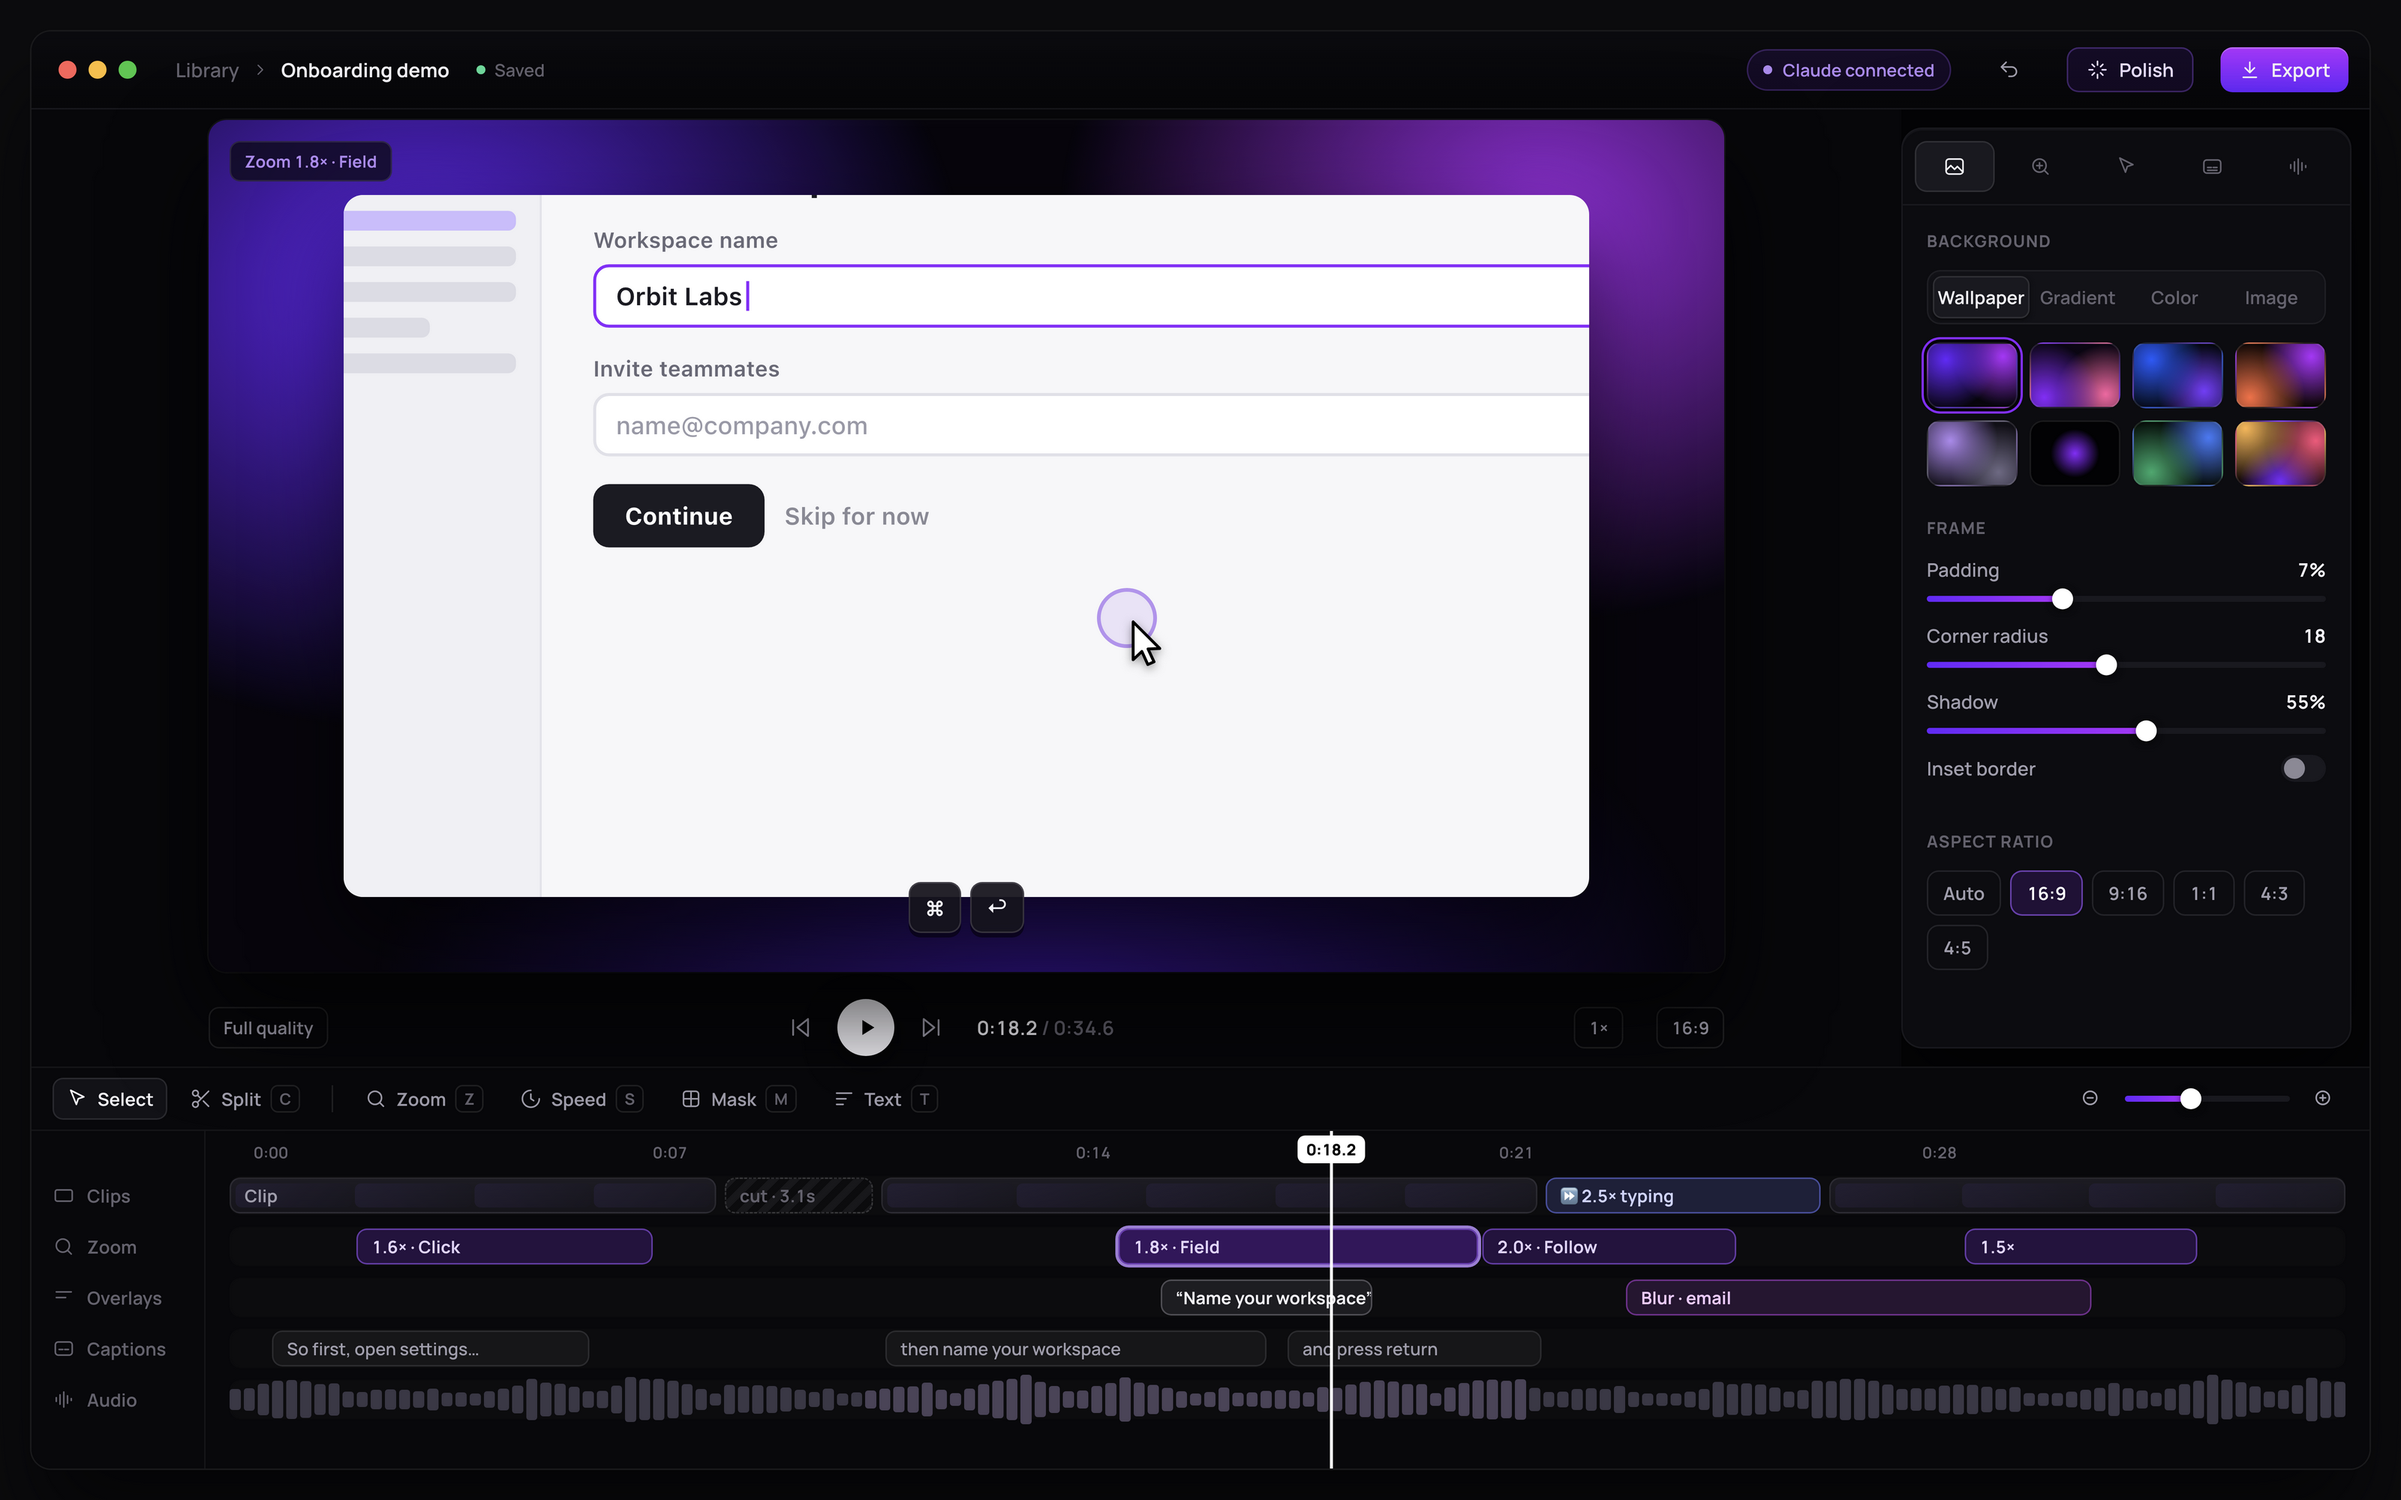
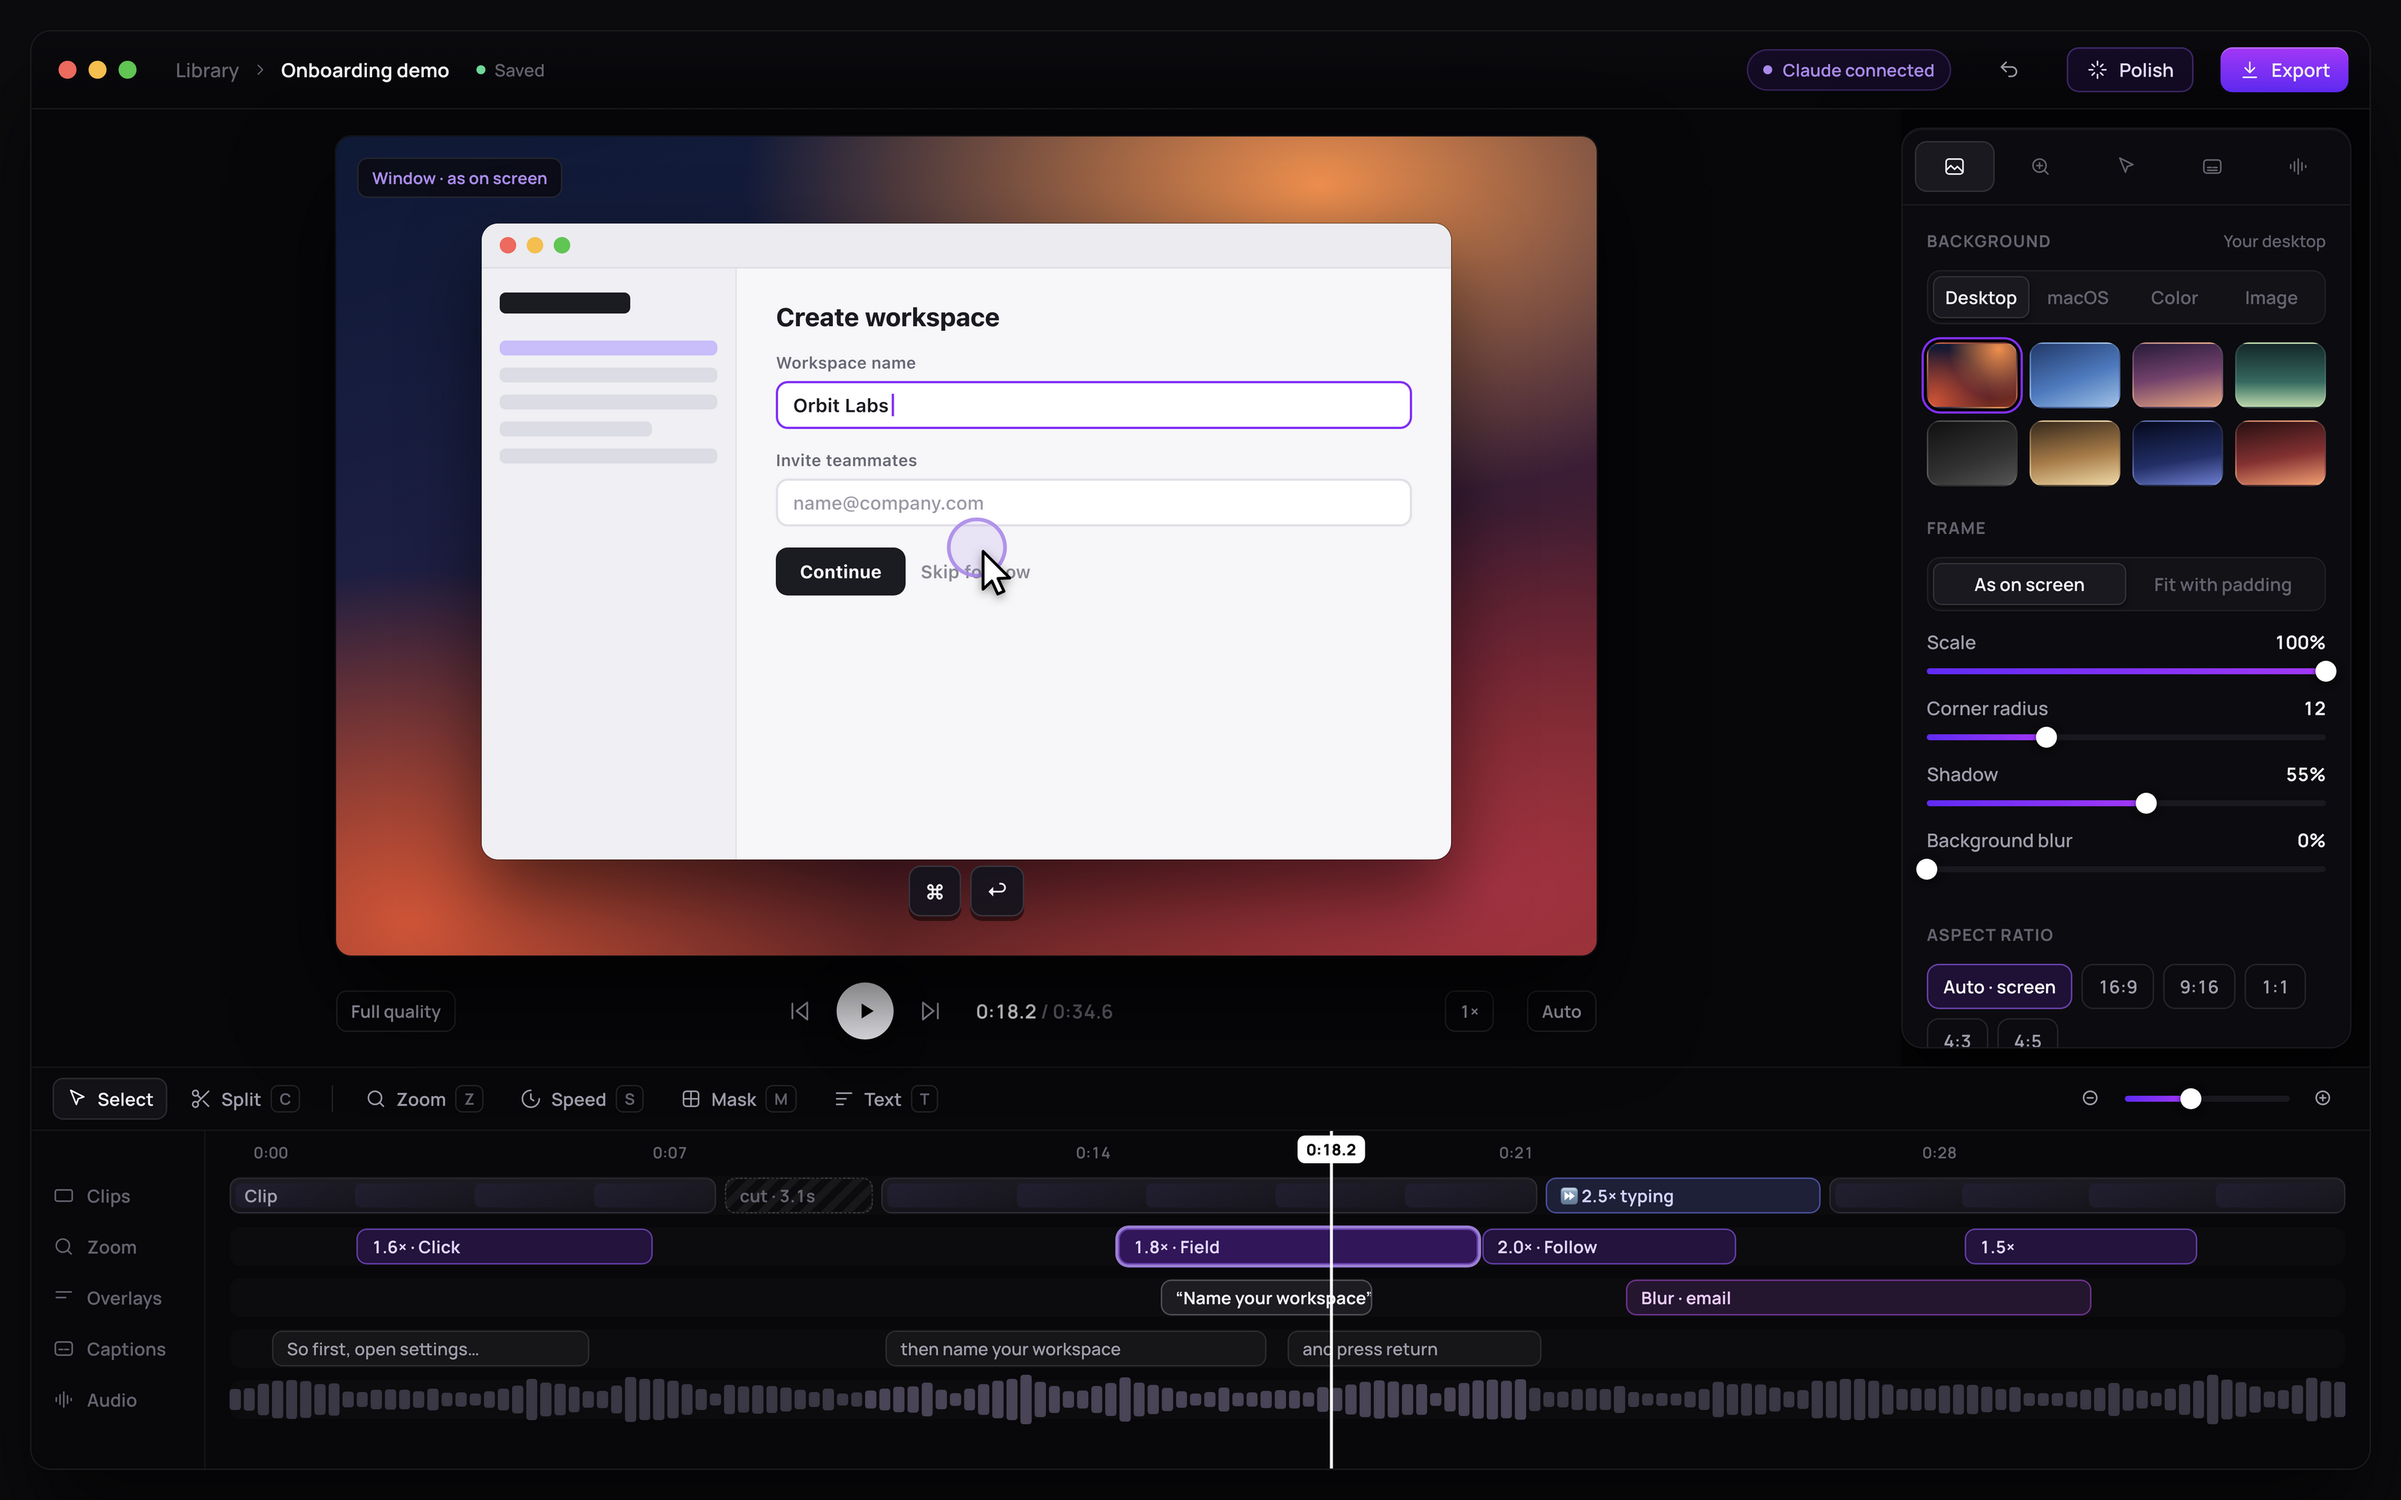
Update the editor mockup to the real-desktop background

diff --git a/design/mockups/editor.html b/design/mockups/editor.html
@@ -22,14 +22,13 @@
 	/* Main */
 	.main { display: grid; grid-template-columns: 1fr 312px; min-height: 0; }
 	.stage { position: relative; display: flex; flex-direction: column; align-items: center; justify-content: center; gap: 18px; background: var(--bg-canvas); }
-	.frame { position: relative; width: 1010px; height: 568px; border-radius: 12px; overflow: hidden; box-shadow: 0 30px 80px rgba(0,0,0,0.7), 0 0 0 1px rgba(255,255,255,0.06); }
-	.wallpaper { position: absolute; inset: 0; background:
-		radial-gradient(520px 420px at 14% 20%, rgba(104,40,255,0.95), transparent 70%),
-		radial-gradient(460px 380px at 88% 12%, rgba(178,46,255,0.85), transparent 70%),
-		radial-gradient(640px 420px at 55% 105%, rgba(42,15,110,1), transparent 70%), #07050d; }
-	.shot { position: absolute; left: 90px; top: 50px; width: 830px; height: 468px; border-radius: 13px; overflow: hidden; background: #f7f7f9; box-shadow: 0 26px 60px rgba(0,0,0,0.55); transform-origin: 70% 62%; }
+	.frame { position: relative; width: 840px; height: 546px; border-radius: 10px; overflow: hidden; box-shadow: 0 30px 80px rgba(0,0,0,0.7), 0 0 0 1px rgba(255,255,255,0.06); }
+	.wallpaper { position: absolute; inset: 0; background: radial-gradient(620px 340px at 78% 6%, #ff8a3d 0%, rgba(255,138,61,0) 62%), radial-gradient(520px 380px at 6% 96%, #e04a2a 0%, rgba(224,74,42,0) 62%), radial-gradient(700px 420px at 92% 92%, #b0263f 0%, rgba(176,38,63,0) 60%), linear-gradient(165deg, #0c1a38 0%, #1c1f45 38%, #5a1a2c 72%, #8a2c16 100%); }
+	.shot { position: absolute; left: 97px; top: 58px; width: 646px; height: 424px; border-radius: 11px; overflow: hidden; background: #f7f7f9; box-shadow: 0 22px 50px rgba(0,0,0,0.5), 0 0 0 0.5px rgba(0,0,0,0.4); }
 	/* A light SaaS app inside the recording, zoomed by the camera */
-	.app { position: absolute; inset: 0; transform: scale(1.32) translate(-70px, -40px); transform-origin: 0 0; display: grid; grid-template-columns: 170px 1fr; font-family: system-ui; color: #1b1b23; }
+	.winbar { position: absolute; left: 0; right: 0; top: 0; height: 30px; background: #ececf0; border-bottom: 1px solid #dedee5; display: flex; align-items: center; gap: 7px; padding-left: 12px; z-index: 2; }
+	.winbar i { width: 11px; height: 11px; border-radius: 50%; display: block; }
+	.app { position: absolute; inset: 30px 0 0 0; display: grid; grid-template-columns: 170px 1fr; font-family: system-ui; color: #1b1b23; }
 	.app .side { background: #f0f0f4; border-right: 1px solid #e3e3ea; padding: 16px 12px; display: flex; flex-direction: column; gap: 8px; }
 	.app .side div { height: 10px; border-radius: 4px; background: #dcdce5; }
 	.app .side div.on { background: #cbbcff; }
@@ -41,13 +40,13 @@
 	.app .row { display: flex; gap: 10px; align-items: center; }
 	.app .cta { height: 32px; padding: 0 16px; border-radius: 8px; background: #1b1b23; color: white; font-size: 12px; font-weight: 700; display: flex; align-items: center; }
 	.caret { width: 1.5px; height: 15px; background: #8C28FF; margin-left: 2px; }
-	.cursor { position: absolute; left: 610px; top: 330px; width: 26px; filter: drop-shadow(0 2px 3px rgba(0,0,0,0.4)); }
-	.ripple { position: absolute; left: 592px; top: 312px; width: 40px; height: 40px; border-radius: 50%; border: 2.5px solid rgba(176,137,240,0.9); background: rgba(176,137,240,0.18); }
+	.cursor { position: absolute; left: 425px; top: 272px; width: 26px; filter: drop-shadow(0 2px 3px rgba(0,0,0,0.4)); }
+	.ripple { position: absolute; left: 407px; top: 254px; width: 40px; height: 40px; border-radius: 50%; border: 2.5px solid rgba(176,137,240,0.9); background: rgba(176,137,240,0.18); }
 	.keycaps { position: absolute; left: 50%; bottom: 26px; transform: translateX(-50%); display: flex; gap: 6px; }
 	.keycaps span { min-width: 34px; height: 34px; padding: 0 10px; border-radius: 8px; background: rgba(22,20,30,0.94); border: 1px solid rgba(255,255,255,0.14); box-shadow: 0 3px 0 rgba(0,0,0,0.5); display: flex; align-items: center; justify-content: center; font-size: 14px; font-weight: 700; }
 	.chip { position: absolute; left: 14px; top: 14px; font-size: 11px; font-weight: 700; padding: 5px 9px; border-radius: 7px; background: rgba(8,8,12,0.72); border: 1px solid rgba(255,255,255,0.1); color: var(--lavender); backdrop-filter: blur(10px); }
 
-	.transport { display: flex; align-items: center; gap: 22px; width: 1010px; }
+	.transport { display: flex; align-items: center; gap: 22px; width: 840px; }
 	.transport .time { font-size: 13px; font-weight: 650; color: var(--text-1); font-variant-numeric: tabular-nums; }
 	.transport .time em { font-style: normal; color: var(--text-3); }
 	.transport .play { width: 38px; height: 38px; border-radius: 50%; background: var(--text-1); color: #000; display: flex; align-items: center; justify-content: center; box-shadow: 0 6px 20px rgba(0,0,0,0.5); }
@@ -133,6 +132,7 @@
 			<div class="frame">
 				<div class="wallpaper"></div>
 				<div class="shot">
+					<div class="winbar"><i style="background:#ff5f57"></i><i style="background:#febc2e"></i><i style="background:#28c840"></i></div>
 					<div class="app">
 						<div class="side"><div style="width:60%;height:14px;background:#1b1b23;margin-bottom:10px"></div><div class="on"></div><div></div><div></div><div style="width:70%"></div><div></div></div>
 						<div class="body">
@@ -146,7 +146,7 @@
 				<div class="ripple"></div>
 				<svg class="cursor" viewBox="0 0 17 24"><path d="M4 3v16.5l3.8-3.6 2.6 5.7 2.7-1.2-2.6-5.6 5.1-.2z" fill="#fff" stroke="#000" stroke-width="1.25" stroke-linejoin="round"/></svg>
 				<div class="keycaps"><span>⌘</span><span>↩</span></div>
-				<div class="chip">Zoom 1.8× · Field</div>
+				<div class="chip">Window · as on screen</div>
 			</div>
 			<div class="transport">
 				<div class="pill">Full quality</div>
@@ -159,7 +159,7 @@
 				<div class="time">0:18.2 <em>/ 0:34.6</em></div>
 				<div class="sp"></div>
 				<div class="pill">1×</div>
-				<div class="pill">16:9</div>
+				<div class="pill">Auto</div>
 			</div>
 		</div>
 
@@ -172,29 +172,23 @@
 				<div><svg class="icon" viewBox="0 0 24 24"><path d="M4 10v4M8 7v10M12 4v16M16 8v8M20 11v2"/></svg></div>
 			</div>
 			<div class="section">
-				<h4>Background</h4>
-				<div class="seg"><div class="on">Wallpaper</div><div>Gradient</div><div>Color</div><div>Image</div></div>
+				<h4>Background <span style="text-transform:none;letter-spacing:0;font-weight:600">Your desktop</span></h4>
+				<div class="seg"><div class="on">Desktop</div><div>macOS</div><div>Color</div><div>Image</div></div>
 				<div class="swatches">
-					<div class="on" style="background: radial-gradient(circle at 20% 25%, #6828FF, transparent 60%), radial-gradient(circle at 85% 20%, #B22EFF, transparent 55%), #07050d"></div>
-					<div style="background: radial-gradient(circle at 15% 85%, #8C28FF, transparent 60%), radial-gradient(circle at 85% 80%, #FF5FA2, transparent 55%), #0c0614"></div>
-					<div style="background: radial-gradient(circle at 20% 25%, #1E5BFF, transparent 60%), radial-gradient(circle at 80% 75%, #7A3CFF, transparent 55%), #04080f"></div>
-					<div style="background: radial-gradient(circle at 15% 85%, #FF6A3D, transparent 60%), radial-gradient(circle at 85% 20%, #B22EFF, transparent 55%), #0d0605"></div>
-					<div style="background: radial-gradient(circle at 25% 30%, #B089F0, transparent 60%), radial-gradient(circle at 80% 80%, #6E6A85, transparent 55%), #121018"></div>
-					<div style="background: radial-gradient(circle at 50% 50%, #8C28FF, transparent 45%), #020204"></div>
-					<div style="background: radial-gradient(circle at 20% 80%, #1FAA6B, transparent 60%), radial-gradient(circle at 85% 25%, #3E7BFA, transparent 55%), #050b08"></div>
-					<div style="background: radial-gradient(circle at 10% 10%, #FFB547, transparent 55%), radial-gradient(circle at 90% 30%, #FF4F7A, transparent 55%), radial-gradient(circle at 50% 95%, #7B2CFF, transparent 55%), #120708"></div>
+					<div class="on" style="background: radial-gradient(circle at 80% 8%, #ff8a3d, transparent 55%), radial-gradient(circle at 6% 95%, #e04a2a, transparent 55%), linear-gradient(165deg, #0c1a38, #5a1a2c 70%, #8a2c16)"></div><div class="" style="background: linear-gradient(160deg, #1b3b6f, #3f7cc4 55%, #9ac3ea)"></div><div class="" style="background: linear-gradient(170deg, #2b1c3d, #7a3f6e 50%, #f0a37a)"></div><div class="" style="background: linear-gradient(180deg, #0e2a2a, #1f6a5f 60%, #b6d9a7)"></div><div class="" style="background: linear-gradient(160deg, #111, #333 60%, #555)"></div><div class="" style="background: linear-gradient(170deg, #3a2a1c, #b07a3f 55%, #f3d7a1)"></div><div class="" style="background: linear-gradient(170deg, #050a1f, #20306b 60%, #6b7fd6)"></div><div class="" style="background: linear-gradient(170deg, #2d0f12, #8f2a2f 55%, #ff9b6a)"></div>
 				</div>
 			</div>
 			<div class="section">
 				<h4>Frame</h4>
-				<div class="slider"><div class="row">Padding<b>7%</b></div><div class="track"><i style="width:34%"></i><b style="left:34%"></b></div></div>
-				<div class="slider"><div class="row">Corner radius<b>18</b></div><div class="track"><i style="width:45%"></i><b style="left:45%"></b></div></div>
+				<div class="seg"><div class="on">As on screen</div><div>Fit with padding</div></div>
+				<div class="slider"><div class="row">Scale<b>100%</b></div><div class="track"><i style="width:100%"></i><b style="left:100%"></b></div></div>
+				<div class="slider"><div class="row">Corner radius<b>12</b></div><div class="track"><i style="width:30%"></i><b style="left:30%"></b></div></div>
 				<div class="slider"><div class="row">Shadow<b>55%</b></div><div class="track"><i style="width:55%"></i><b style="left:55%"></b></div></div>
-				<div class="toggle-row">Inset border<div class="toggle off"></div></div>
+				<div class="slider"><div class="row">Background blur<b>0%</b></div><div class="track"><i style="width:0%"></i><b style="left:0%"></b></div></div>
 			</div>
 			<div class="section">
 				<h4>Aspect ratio</h4>
-				<div class="chips"><div>Auto</div><div class="on">16:9</div><div>9:16</div><div>1:1</div><div>4:3</div><div>4:5</div></div>
+				<div class="chips"><div class="on">Auto · screen</div><div>16:9</div><div>9:16</div><div>1:1</div><div>4:3</div><div>4:5</div></div>
 			</div>
 		</div>
 	</div>
